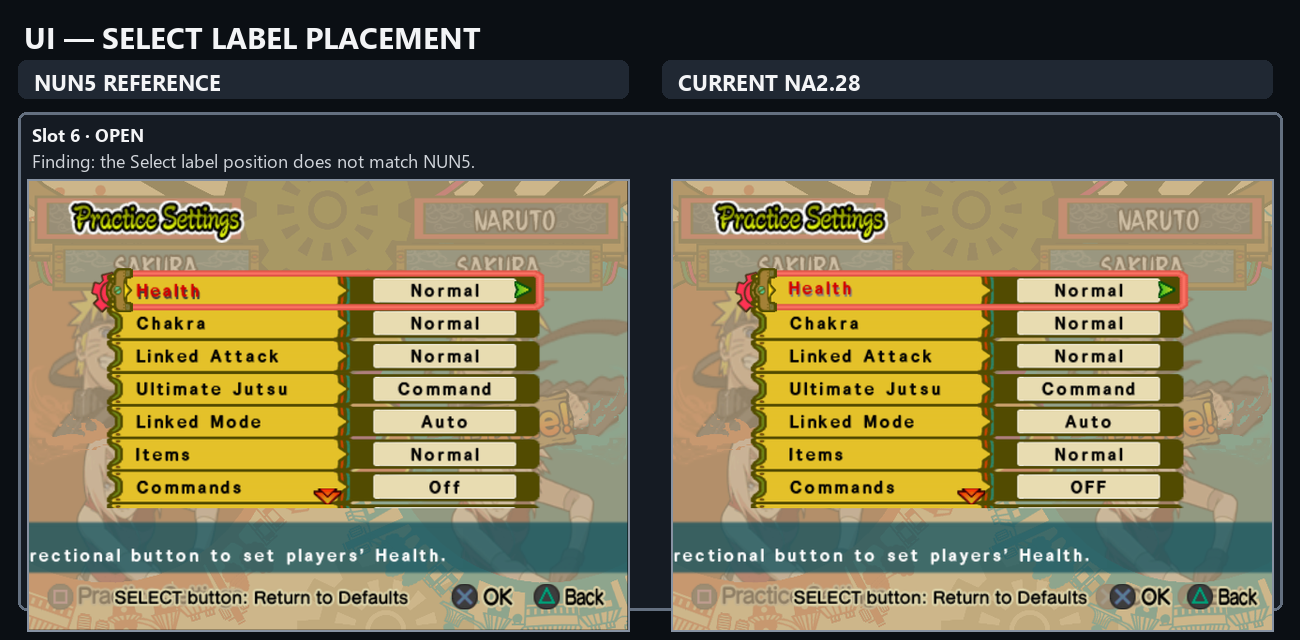
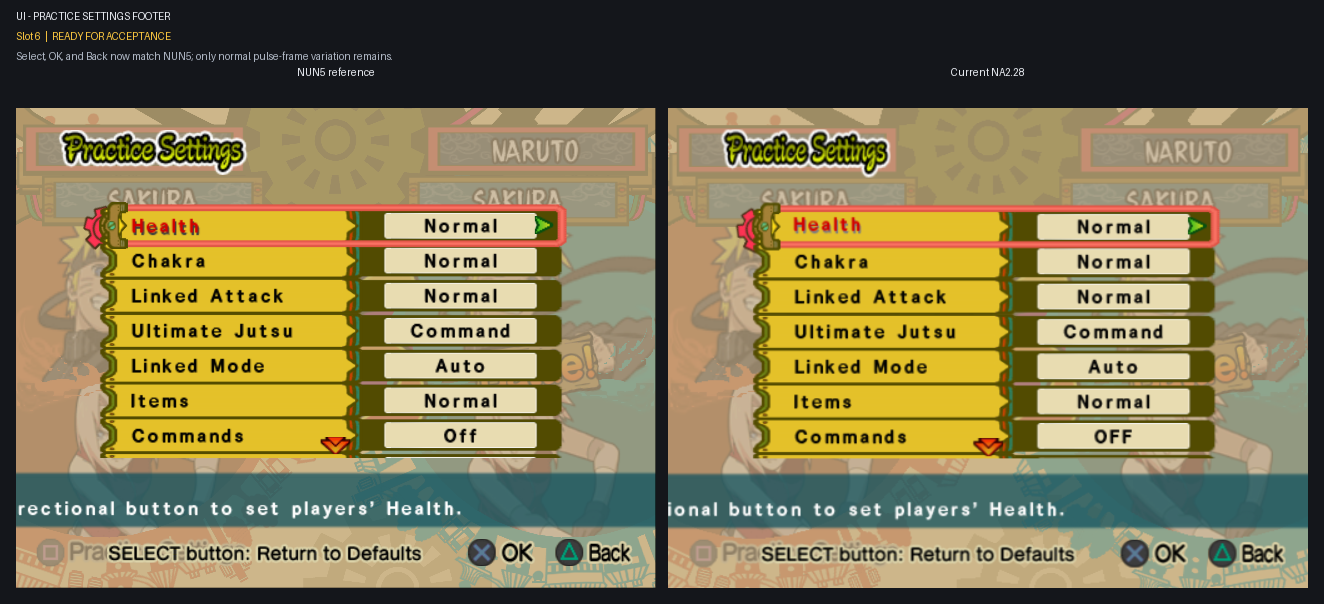
[UI Translation] Align Practice Settings footer

diff --git a/na2_patcher/tests/test_texture_patcher.py b/na2_patcher/tests/test_texture_patcher.py
@@ -966,6 +966,57 @@ class UiTextureTests(unittest.TestCase):
         self.assertEqual(patch.status, "approved_for_test")
         self.assertEqual(patch.confidence, "high")
 
+    def test_practice_footer_uses_nun5_select_and_effective_ok_back_anchors(self) -> None:
+        repository = Path(__file__).resolve().parents[2]
+        package = binary_patcher.load_package(
+            repository
+            / "na2_patcher/features/localization/binary_patcher"
+        )
+        edits = [item for item in package.edits if item.patch_id == "UI-BTL-015"]
+        self.assertEqual(
+            [
+                (
+                    item.edit_id,
+                    item.operation,
+                    item.destination_offset,
+                    item.expected_hex,
+                    item.replacement_hex
+                    if item.operation == "replace"
+                    else (
+                        item.source_target_id,
+                        item.source_offset,
+                        item.source_expected_hex,
+                    ),
+                )
+                for item in edits
+            ],
+            [
+                ("UI-BTL-015-01", "replace", 0x1CE634, "C843023C", "C243023C"),
+                ("UI-BTL-015-02", "replace", 0x1CE658, "EB43023C", "E743023C"),
+                (
+                    "UI-BTL-015-03",
+                    "copy",
+                    0x1CE67C,
+                    "6643023C",
+                    ("nun5_btl", 0x1D866C, "4843023C"),
+                ),
+                (
+                    "UI-BTL-015-04",
+                    "copy",
+                    0x1CE6A0,
+                    "6643023C",
+                    ("nun5_btl", 0x1D8694, "4843023C"),
+                ),
+            ],
+        )
+        self.assertEqual(
+            (
+                package.patches["UI-BTL-015"].status,
+                package.patches["UI-BTL-015"].confidence,
+            ),
+            ("runtime_proven", "verified"),
+        )
+
     def test_paired_item_status_layout_uses_exact_nun5_donors(self) -> None:
         repository = Path(__file__).resolve().parents[2]
         package = binary_patcher.load_package(
@@ -1421,14 +1472,14 @@ class UiTextureTests(unittest.TestCase):
             if edit.operation == "replace" and edit not in stage_scales
         ]
 
-        self.assertEqual(len(ui_edits), 255)
-        self.assertEqual(operations, {"copy": 86, "replace": 169})
+        self.assertEqual(len(ui_edits), 259)
+        self.assertEqual(operations, {"copy": 88, "replace": 171})
         self.assertEqual(
             copy_sources,
-            {"nun5_elf": 61, "nun5_btl": 16, "nun5_etc": 9},
+            {"nun5_elf": 61, "nun5_btl": 18, "nun5_etc": 9},
         )
         self.assertEqual(len(stage_scales), 24)
-        self.assertEqual(len(adaptations), 145)
+        self.assertEqual(len(adaptations), 147)
 
     def test_plan_applies_only_inside_the_selected_cvm_member(self) -> None:
         result = self.result("battlegauge")

diff --git a/docs/knowledge/localization/ui/battle.md b/docs/knowledge/localization/ui/battle.md
@@ -689,3 +689,76 @@ Evidence consists of both complete BTL draw paths, NUN5 boot-ELF accessor
 the guarded negative test, and the corrected 640x480 paired checkpoint.
 The table identity, donor mapping, and visible result are **runtime-proven**
 with **verified confidence**.
+
+## Practice Settings footer legends
+
+### Function and address map
+
+This finding uses the BTL identities and `+0x40` Ghidra/live convention recorded
+at the top of this document.
+
+| Role | NA2 v2.28 | NUN5 |
+| --- | --- | --- |
+| Practice Settings draw | file `0x1CE390..0x1CE70F`, Ghidra `FUN_00882250` (`0x00882250..0x008825CF`), live `0x00882290..0x0088260F` | file `0x1D8470..0x1D8703`, Ghidra `FUN_0089f130` (`0x0089F130..0x0089F3C3`), live `0x0089F170..0x0089F403` |
+| Known callers | Ghidra `0x006C1210`, `0x00875B1C` | Ghidra `0x006D46D0`, `0x00891AEC` |
+| Common OK/Back/Select compositor | `SUB_0037c980` | `SUB_0038bb10` |
+| Select companion renderer | `SUB_0037bc40` | `SUB_0038ad00` |
+
+The four footer X-coordinate instructions map as follows:
+
+| Legend | NA2 file / live | Original NA2 | NUN5 file / Ghidra | Required NA2 result |
+| --- | --- | ---: | --- | ---: |
+| OK | `0x1CE634` / `0x00882534` | 400 | `0x1D8604` / `0x0089F2C4` | 388 |
+| Back | `0x1CE658` / `0x00882558` | 470 | `0x1D8638` / `0x0089F2F8` | 462 |
+| Select compositor | `0x1CE67C` / `0x0088257C` | 230 | `0x1D866C` / `0x0089F32C` | 200 |
+| Select companion | `0x1CE6A0` / `0x008825A0` | 230 | `0x1D8694` / `0x0089F354` | 200 |
+
+### Reconstructed behavior and cross-game difference
+
+The footer portion reduces to:
+
+```cpp
+void drawPracticeFooter(PracticeSettings *screen) {
+    drawCommonPrompt(screen->common, effectiveOkX(), 356.0f, OK, true);
+    drawCommonPrompt(screen->common, effectiveBackX(), 356.0f, BACK, true);
+    drawCommonPrompt(screen->common, selectX(), 356.0f, SELECT, false);
+    drawSelectCompanion(screen->selectCompanion, selectX(), 356.0f);
+}
+
+// NA2 original:             400, 470, 230
+// NUN5 effective anchors:   388, 462, 200
+```
+
+Both NUN5 Select calls load X=`200` directly, with the same destination register
+as the NA2 X=`230` instructions. Those two instructions are safe exact donor
+copies. NUN5 instead loads nominal OK/Back values X=`400` and X=`470`, converts
+two signed per-call global values to floats, and adds `-12` and `-8` before
+calling its common compositor. NA2 calls its compositor immediately after the
+nominal loads and has no equivalent additions. Copying the nominal NUN5
+instructions would therefore preserve the visible NA2 mismatch.
+
+`UI-BTL-015` expresses the equivalent behavior with NA2-specific effective
+constants X=`388` and X=`462`, plus the two exact X=`200` NUN5 donor copies.
+The same effective OK/Back constants are independently runtime-proven in
+`UI-BTL-005`, but this patch changes only the distinct Practice Settings
+function.
+
+### State behavior, evidence, and confidence
+
+The draw function updates menu animation and invokes existing sprite/compositor
+objects; the four edits change only call-site X coordinates. They do not change
+menu input, selected setting, texture identity, prompt records, object layout,
+animation timing, font rendering, or the accepted VS confirmation /
+Customize Jutsu path.
+
+Evidence consists of both complete homologous functions, their callers and
+callees, exact source bytes, paired slot-6 `eeMemory` images, active sprite
+objects, and a guarded task-owned savestate in which all four live instructions
+were changed together. The resulting 640x480 capture aligns Select, OK, and
+Back with NUN5; remaining one-pixel differences are normal pulse-frame
+variation.
+
+An earlier candidate at NA2 BTL file offset `0xCF70` belongs to the separate
+VS confirmation Customize Jutsu call and is not part of this screen. It was
+rejected for this defect and remains untouched. The mapping and visible result
+are **runtime-proven** with **verified confidence**.

diff --git a/na2_patcher/features/localization/README.md b/na2_patcher/features/localization/README.md
@@ -1345,6 +1345,25 @@ file/runtime mappings, reconstruction, alias evidence, and the remaining
 normal-entry runtime requirement are preserved in
 `docs/knowledge/localization/ui/victory.md`.
 
+### UI-BTL-015: localized Practice Settings footer anchors
+
+The Practice Settings footer is rendered inside BTL rather than by the shared
+resident Options functions. NA2 `FUN_00882250` draws Select at X=`230`, while
+the homologous NUN5 `FUN_0089f130` draws both Select components at X=`200`.
+`UI-BTL-015` therefore copies those two exact same-register NUN5 instructions.
+
+NUN5 loads nominal X=`400`/`470` for OK/Back and then adds per-call runtime
+offsets `-12`/`-8`. NA2 has no equivalent additions. Copying only the nominal
+NUN5 instructions would leave the legends visibly too far right, so the two
+NA2 call sites use authored effective anchors X=`388`/`462`. These are the same
+NA2-compatible anchors already proven for the analogous confirmation footer.
+
+All four writes are confined to the Practice Settings draw function. A guarded
+task-owned slot-6 state rendered Select, OK, and Back at the NUN5 positions
+without changing the accepted Customize Jutsu footer. Exact function ranges,
+file/runtime mappings, reconstructed behavior, and evidence are preserved in
+`docs/knowledge/localization/ui/battle.md`.
+
 ### UI-ETC-001: localized Shop label layout
 
 Importing the complete NUN5 `SHOP.CCS` supplies the correct English atlas, but
@@ -1511,7 +1530,7 @@ placement. The complete homolog mappings, reconstruction, runtime evidence,
 and rejected wrong-table probe are preserved in
 `docs/knowledge/localization/ui/options.md`.
 
-Inspect all nineteen UI companion patches together:
+Inspect all 26 UI companion patches together:
 
 ```powershell
 python -m na2_patcher.modules.binary_patcher.engine validate `
@@ -1531,6 +1550,13 @@ python -m na2_patcher.modules.binary_patcher.engine plan `
   --patch UI-BTL-006 `
   --patch UI-BTL-007 `
   --patch UI-BTL-008 `
+  --patch UI-BTL-009 `
+  --patch UI-BTL-010 `
+  --patch UI-BTL-011 `
+  --patch UI-BTL-012 `
+  --patch UI-BTL-013 `
+  --patch UI-BTL-014 `
+  --patch UI-BTL-015 `
   --patch UI-ETC-001 `
   --patch UI-ETC-002 `
   --patch UI-ELF-001 `

diff --git a/docs/workstreams/ui_translation/plan.md b/docs/workstreams/ui_translation/plan.md
@@ -174,12 +174,13 @@ Import appropriate official NUN5 English UI textures into NA2, correct the offse
   6,297,394 bytes, but no replacement CCS blobs are stored in the repository.
 - `na2_patcher/features/localization/binary_patcher/` contains the canonical UI
   companion patches across BTL, ETC, and the boot ELF. The current UI subset
-  has 22 patches and 242 guarded edits: 73 exact NUN5 copies, 24 values
+  has 26 patches and 259 guarded edits: 88 exact NUN5 copies, 24 values
   derived from NUN5's stage-width formula, 78 complete Victory descriptors
-  derived from NUN5's frame templates and English widths, and 67 remaining
-  NA2-ABI adaptations. Stage Select, Jutsu, command-scroll, Items, and Mash are
-  runtime-proven; Mode Select, Vibration, Collection, and Victory still await
-  their respective normal runtime acceptance.
+  derived from NUN5's frame templates and English widths, and 69 remaining
+  NA2-ABI adaptations. Stage Select, Jutsu, command-scroll, Items, Mash, and
+  the Practice Settings footer are runtime-proven; Mode Select, Vibration,
+  Collection, and Victory still await their respective normal runtime
+  acceptance.
 - Translation mapping version 35 restores the four Collection Movie rows to
   exact official NUN5 source strings with no authored line breaks. A
   clean-source full in-memory plan produced 2,437 fixed-size patch rows with
@@ -187,7 +188,7 @@ Import appropriate official NUN5 English UI textures into NA2, correct the offse
 - The Localization feature's aggregate current-profile pin covers both canonical
   module inputs and their feature-relative paths.
 - The complete Localization binary-patcher package validates as 7 targets, 9
-  groups, 95 patches, and 398 edits; its UI subset is the 22 patches and 242
+  groups, 99 patches, and 415 edits; its UI subset is the 26 patches and 259
   edits counted above. The UI texture plan derives all 96 members with 92 whole
   donors and four mapped exceptions: MODE2KDV, ENDDEMO, Haku, and Shikamaru.
   The historical runtime

diff --git a/docs/workstreams/ui_translation/epics/remaining_ui/README.md b/docs/workstreams/ui_translation/epics/remaining_ui/README.md
@@ -10,7 +10,8 @@ the right.
 1. Battle Results screen 2: repair the garbled and mislaid result UI.
 2. Character Items transition: replace the NA2.28 slide with the NUN5/base-NA2
    fade behavior.
-3. Select label, slot 6: match the NUN5 placement.
+3. Practice Settings footer, slot 6: Select, OK, and Back are fixed and ready
+   for acceptance.
 
 ## Report grids
 
